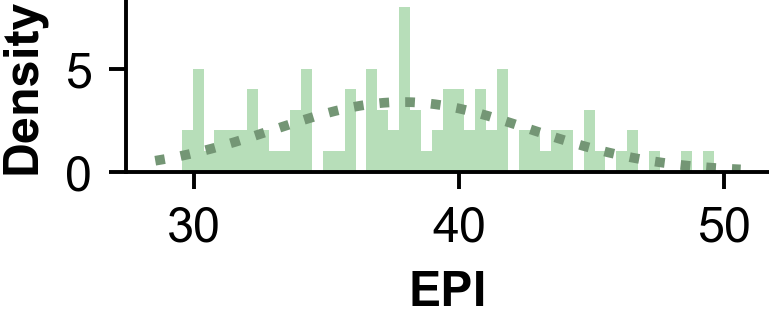
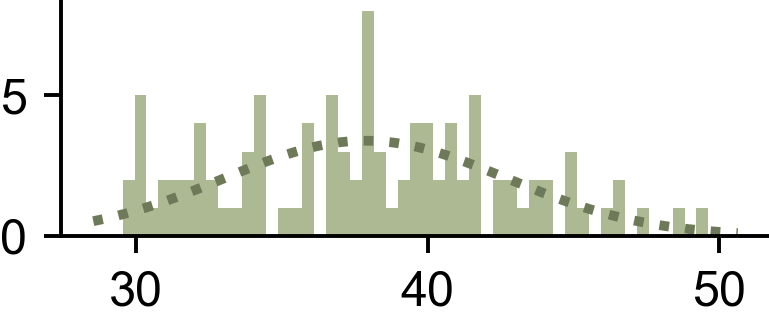
update SA figures and plot codes

diff --git a/src/main/python/freight_emission/kpi_plots.py b/src/main/python/freight_emission/kpi_plots.py
@@ -155,6 +155,7 @@ def plot_stat_one_group(
     figure_size=(10, 6),
     is_fitting=True,
     n_bins=50,
+    **kwargs
 ):
     fig, ax = plt.subplots(figsize=figure_size, dpi=350)
     min_val = result_summary.min()
@@ -183,9 +184,12 @@ def plot_stat_one_group(
     # Hide the right and top spines
     plt.gca().spines["right"].set_visible(False)
     plt.gca().spines["top"].set_visible(False)
-
+    
     plt.xlabel(xlabel, fontsize=10, fontweight="bold")
     plt.ylabel("Density", fontsize=10, fontweight="bold")
+    if kwargs.get('hide_labels', True):
+        plt.xlabel('')
+        plt.ylabel('')
     plt.xticks(fontsize=10)
     plt.yticks(fontsize=10)
     plt.tight_layout()
@@ -204,6 +208,8 @@ if __name__ == '__main__':
     # 'cb'
     ]
     sa_scenario_kw_list = ['VanSA2t', 'CBSA80kg', 'CBSA100kg', 'CBSA150kg', 'CBSA200kg']  
+    sa_colors = ['#6184a1', '#f7f7e8', '#c7cfb7', '#9dad7f', '#557174']
+    sa_alphas = [0.6, 0.95, 0.9, 0.85, 0.8]
     figure_folder = r'../../../../figures/freightEmissions/KPIs/'
     sa_figure_folder = r'../../../../figures/freightEmissions/KPIs/SA/'
     os.makedirs(figure_folder, exist_ok=True)
@@ -564,131 +570,104 @@ if __name__ == '__main__':
             n_bins=50,
         )
     
-    def plot_sa_plots(sa_scenario_kw_list, sa_figure_folder):
+    def plot_sa_plots(sa_scenario_kw_list, sa_figure_folder, sa_colors, sa_alphas):
         ''' VKT '''
-        metric = 'vkt'
-        for scen_kw in sa_scenario_kw_list:
-            if 'Van' in scen_kw:
-                color_ = 'steelblue'
-                alpha_ = 0.6
-            else:
-                color_ = "#A5D6A7"
-                alpha_ = 0.8
+        metric = 'vkt' 
+        for scen_kw, scen_color, scen_alpha in zip(sa_scenario_kw_list, sa_colors, sa_alphas):
+            
             plot_stat_one_group(
                 result_summary=np.array(all_scenario_stats[scen_kw][metric]),
                 figure_folder=sa_figure_folder,
                 filename=f'{scen_kw}_vkt.png',
                 xlabel='VKT (km)',
-                color=color_,
-                alpha=alpha_,
+                color=scen_color,
+                alpha=scen_alpha,
                 figure_size=(2.5, 1.2),
                 is_fitting=True,
                 n_bins=50,
+                hide_labels=True
             )
         ''' Transit Time '''
         metric = 'total_transit_time'
-        for scen_kw in sa_scenario_kw_list:
-            if 'Van' in scen_kw:
-                color_ = 'steelblue'
-                alpha_ = 0.6
-            else:
-                color_ = "#A5D6A7"
-                alpha_ = 0.8
+        for scen_kw, scen_color, scen_alpha in zip(sa_scenario_kw_list, sa_colors, sa_alphas):
+
             plot_stat_one_group(
                 result_summary=np.array(all_scenario_stats[scen_kw][metric]),
                 figure_folder=sa_figure_folder,
                 filename=f'{scen_kw}_transit_time.png',
                 xlabel='Transit Time (min)',
-                color=color_,
-                alpha=alpha_,
+                color=scen_color,
+                alpha=scen_alpha,
                 figure_size=(2.5, 1.2),
                 is_fitting=True,
                 n_bins=50,
+                hide_labels=True
             )
         ''' Ton-km traveled '''
         metric = 'ton_km_traveled'
-        for scen_kw in sa_scenario_kw_list:
-            if 'Van' in scen_kw:
-                color_ = 'steelblue'
-                alpha_ = 0.6
-            else:
-                color_ = "#A5D6A7"
-                alpha_ = 0.8
+        for scen_kw, scen_color, scen_alpha in zip(sa_scenario_kw_list, sa_colors, sa_alphas):
             plot_stat_one_group(
                 result_summary=np.array(all_scenario_stats[scen_kw][metric]),
                 figure_folder=sa_figure_folder,
                 filename=f'{scen_kw}_ton_km_traveled.png',
                 xlabel='Ton-km traveled (ton·km)',
-                color=color_,
-                alpha=alpha_,
+                color=scen_color,
+                alpha=scen_alpha,
                 figure_size=(2.5, 1.2),
                 is_fitting=True,
                 n_bins=50,
+                hide_labels=True
             )
         ''' EPI '''
         metric = 'EPI'
-        for scen_kw in sa_scenario_kw_list:
-            if 'Van' in scen_kw:
-                color_ = 'steelblue'
-                alpha_ = 0.6
-            else:
-                color_ = "#A5D6A7"
-                alpha_ = 0.8
+        for scen_kw, scen_color, scen_alpha in zip(sa_scenario_kw_list, sa_colors, sa_alphas):
             plot_stat_one_group(
                 result_summary=np.array(all_scenario_emissions[scen_kw][metric]),
                 figure_folder=sa_figure_folder,
                 filename=f'{scen_kw}_EPI.png',
                 xlabel='EPI',
-                color=color_,
-                alpha=alpha_,
+                color=scen_color,
+                alpha=scen_alpha,
                 figure_size=(2.5, 1.2),
                 is_fitting=True,
                 n_bins=50,
+                hide_labels=True
             )
 
         ''' Weighted AQI '''
         metric = 'weighted_AQI'
-        for scen_kw in sa_scenario_kw_list:
-            if 'Van' in scen_kw:
-                color_ = 'steelblue'
-                alpha_ = 0.6
-            else:
-                color_ = "#A5D6A7"
-                alpha_ = 0.8
+        for scen_kw, scen_color, scen_alpha in zip(sa_scenario_kw_list, sa_colors, sa_alphas):
             plot_stat_one_group(
                 result_summary=np.array(all_scenario_emissions[scen_kw][metric]),
                 figure_folder=sa_figure_folder,
                 filename=f'{scen_kw}_weighted_AQI.png',
                 xlabel='Weighted AQI',
-                color=color_,
-                alpha=alpha_,
+                color=scen_color,
+                alpha=scen_alpha,
                 figure_size=(2.5, 1.2),
                 is_fitting=True,
                 n_bins=50,
+                hide_labels=True
             )
 
         ''' Pollutants-CO2e '''
         metric = pollutants.CO2e
-        for scen_kw in sa_scenario_kw_list:
-            if 'Van' in scen_kw:
-                color_ = 'steelblue'
-                alpha_ = 0.6
-            else:
-                color_ = "#A5D6A7"
-                alpha_ = 0.8
+        for scen_kw, scen_color, scen_alpha in zip(sa_scenario_kw_list, sa_colors, sa_alphas):
+            
             plot_stat_one_group(
                 result_summary=np.array(all_scenario_emissions[scen_kw][metric]),
                 figure_folder=sa_figure_folder,
                 filename=f'{scen_kw}_CO2e.png',
                 xlabel='WTW CO2-eq emissions (g)',
-                color=color_,
-                alpha=alpha_,
+                color=scen_color,
+                alpha=scen_alpha,
                 figure_size=(2.5, 1.2),
                 is_fitting=True,
                 n_bins=50,
+                hide_labels=True
             )
     
     # plot_main_plots(figure_folder)
-    plot_sa_plots(sa_scenario_kw_list, sa_figure_folder)
+    plot_sa_plots(sa_scenario_kw_list, sa_figure_folder, sa_colors, sa_alphas)
 
     print('Done!')
